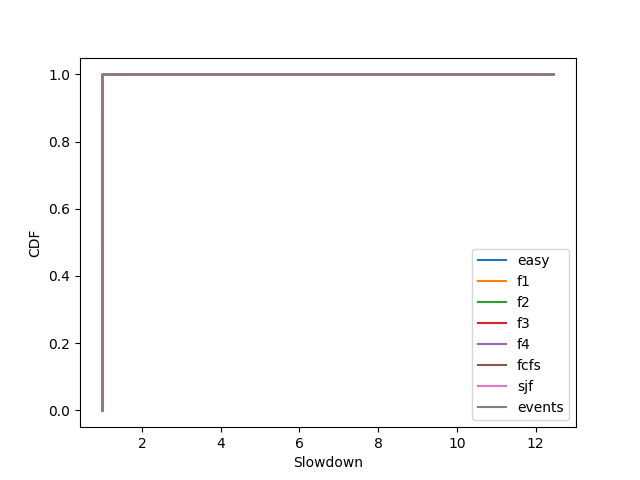
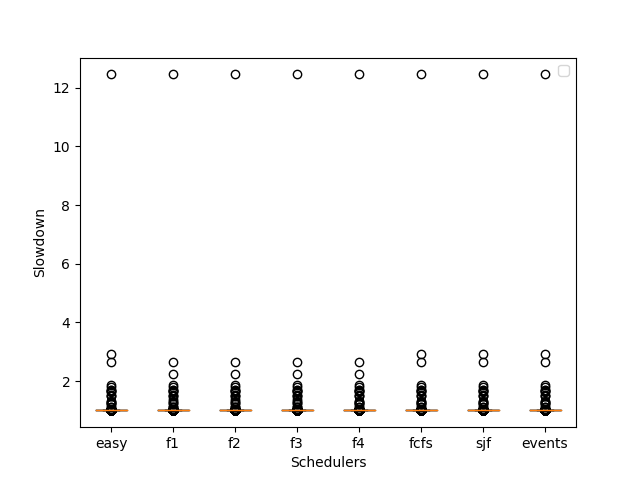
boxplotx

diff --git a/Graphs.py b/Graphs.py
@@ -33,7 +33,8 @@ def generate_graphs(in_file):
         i = 0
         for d in data:
             x_axis.append(float(d['slowdown']))
-            y_axis.append(float(i / len(data)))
+            y_axis.append(i)
+#            y_axis.append(float(i / len(data)))
             i+=1
         tuple_slowdown.append((name, x_axis, y_axis)) 
         print('Slowdown done...')
@@ -51,11 +52,10 @@ def generate_graphs(in_file):
     plt.savefig(name) 
     plt.clf()
 
-    plt.ylabel("CDF") 
-    for t in tuple_slowdown:
-        plt.plot(t[1], t[2], label=t[0])
+    plt.ylabel("Slowdown") 
+    plt.boxplot([k[1] for k in tuple_slowdown], labels=[k[0] for k in tuple_slowdown])
     name = path_scheduler + 'slowdown.png'
-    plt.xlabel("Slowdown")
+    plt.xlabel("Schedulers")
     plt.legend(loc='best')
     plt.savefig(name) 
     plt.clf()
